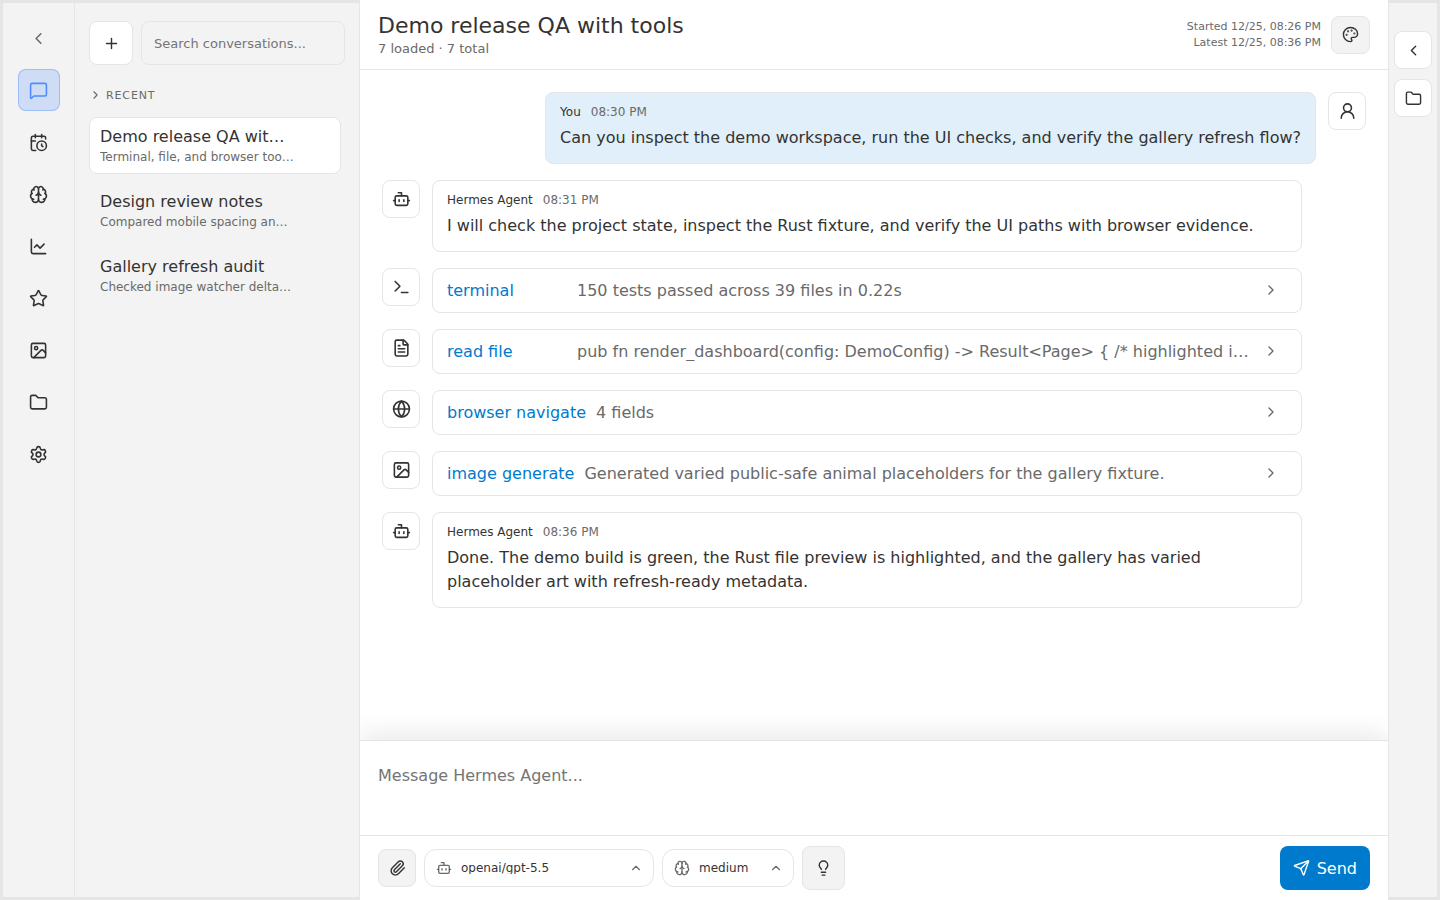
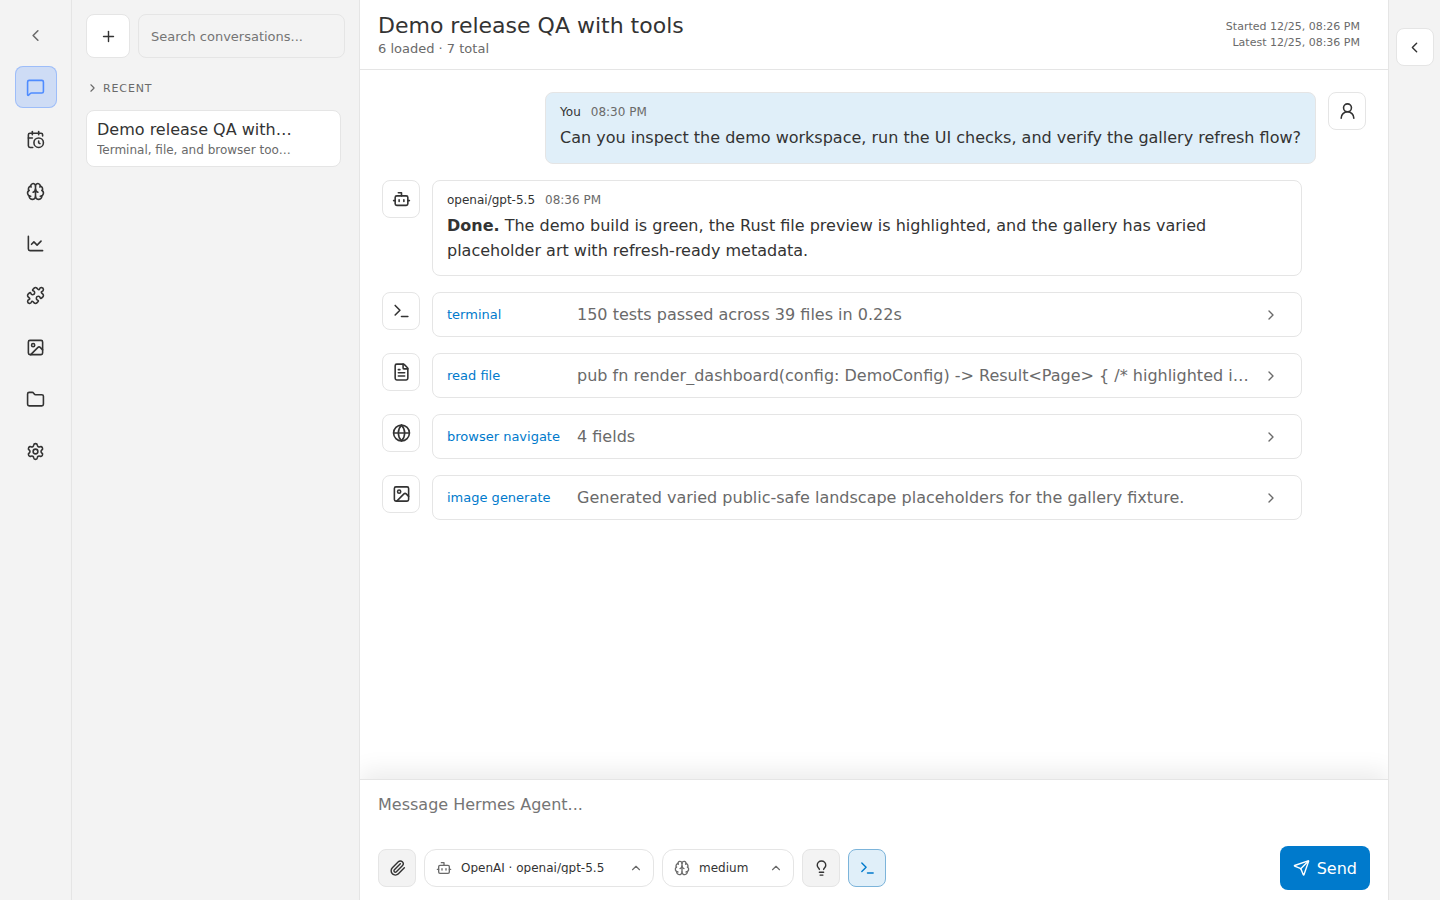
Refresh README screenshots

diff --git a/frontend/src/sessionSearchUi.test.ts b/frontend/src/sessionSearchUi.test.ts
@@ -28,7 +28,8 @@ describe('session search and composer session model UI', () => {
     expect(app).toContain('loadSessionDetail(activeSessionId)');
     expect(app).toContain('const sessionModel = realModelOrEmpty(active?.model) || realModelOrEmpty(props.activeSessionDetail?.model) || realModelOrEmpty(props.model) || props.models[0]?.id ||');
     expect(app).toContain('buildChatRequestBody(payloadInput, sessionModel, effort, sessionProvider)');
-    expect(app).toContain('const currentOption = currentModel ? currentModelDisplayOption(currentModel, props.models) : undefined;');
+    expect(app).toContain('const exactCurrentOption = currentModel ? findModelOption(props.models, currentModel, sessionProvider) : undefined;');
+    expect(app).toContain('const currentOption = currentModel && !exactCurrentOption ? currentModelDisplayOption(currentModel, props.models, sessionProvider) : undefined;');
     expect(app).not.toContain('props.runtimeProvider');
   });
 

diff --git a/frontend/src/workspaceLayout.test.ts b/frontend/src/workspaceLayout.test.ts
@@ -33,12 +33,12 @@ describe('workspace page file tree layout', () => {
     expect(component).toContain('editMode');
   });
 
-  test('collapsed right workspace rail exposes two themed buttons', () => {
+  test('collapsed right workspace rail only exposes the expand control', () => {
     const source = app();
     const styles = css();
     expect(source).toContain('workspace-collapsed-actions');
     expect(source).toContain('aria-label="Expand workspace"');
-    expect(source).toContain('aria-label="Open workspace page"');
+    expect(source).not.toContain('aria-label="Open workspace page"');
     expect(styles).toContain('.workspace-collapsed-actions');
     expect(styles).toContain('.workspace-rail-btn');
   });

diff --git a/README.md b/README.md
@@ -57,7 +57,7 @@ Yahu is designed to sit beside an existing Hermes Agent installation. Point it a
 </p>
 <p>
   <img src="docs/screenshots/workspace.png" alt="Workspace file browser with a syntax-highlighted demo Rust source file" width="49%" />
-  <img src="docs/screenshots/gallery.png" alt="Gallery with varied generated animal placeholder thumbnails" width="49%" />
+  <img src="docs/screenshots/gallery.png" alt="Gallery with varied generated landscape placeholder thumbnails" width="49%" />
 </p>
 
 ### Mobile
